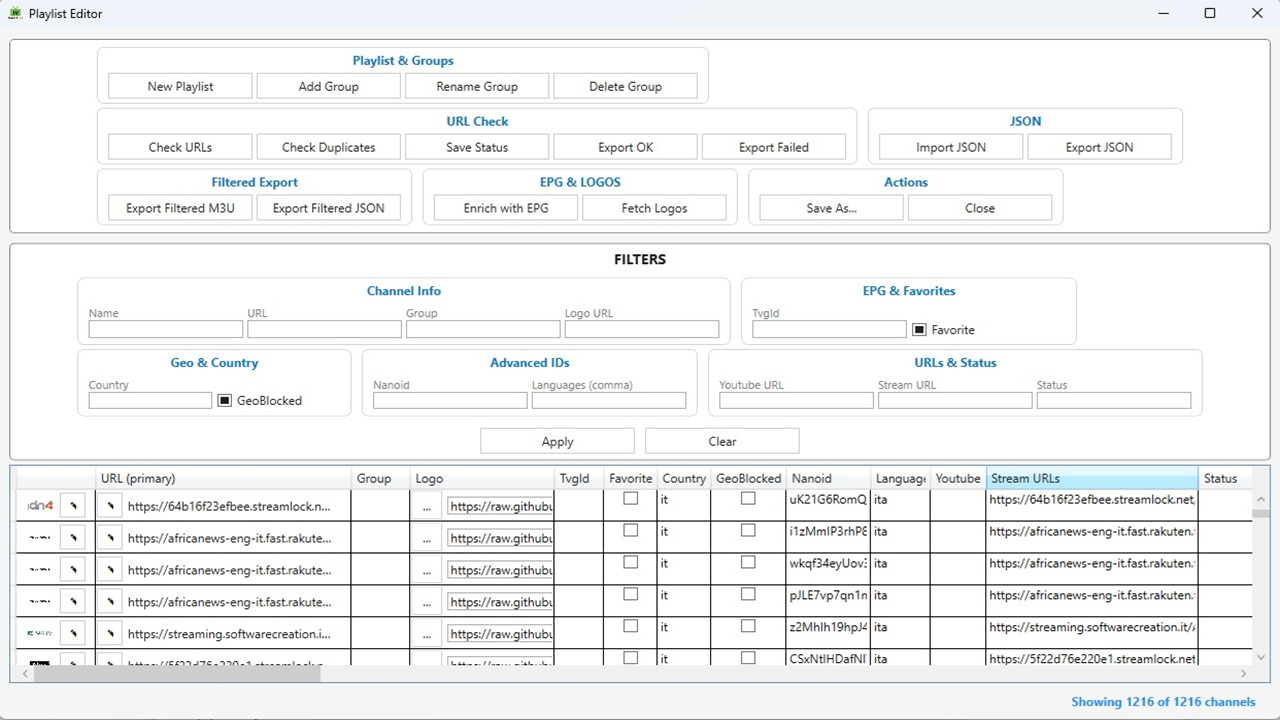
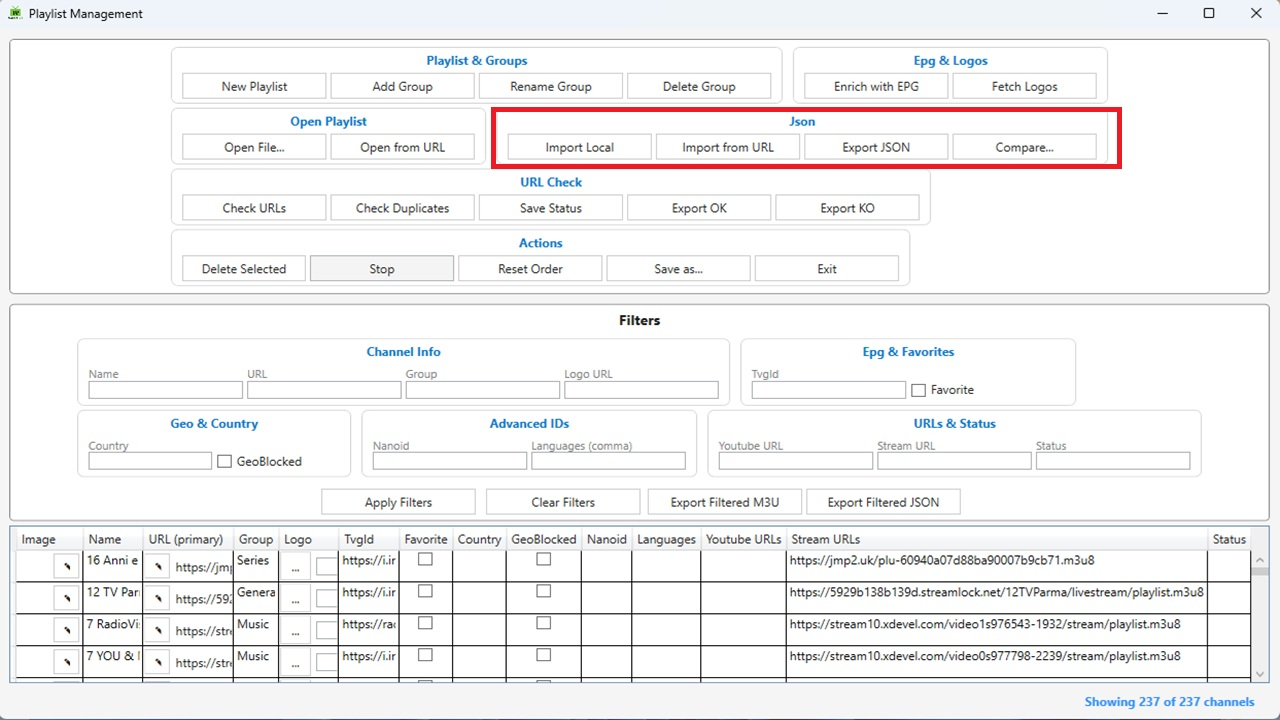
add screenshot compare

diff --git a/README.md b/README.md
@@ -149,6 +149,16 @@ It supports M3U playlists, JSON channel lists, EPG, channel logos, timeshift, pl
     </td>
   </tr>
 
+  <tr>
+    <td align="center">
+      <img src="Screenshots/preview21.jpg?sanitize=true&raw=true" title="preview21" width="400"/><br/>
+      <b>Preview 21</b>
+    </td>
+    <td align="center">
+      <img src="Screenshots/preview22.jpg?sanitize=true&raw=true" title="preview22" width="400"/><br/>
+      <b>Preview 22</b>
+    </td>
+  </tr>
 </table>
 
 ---
